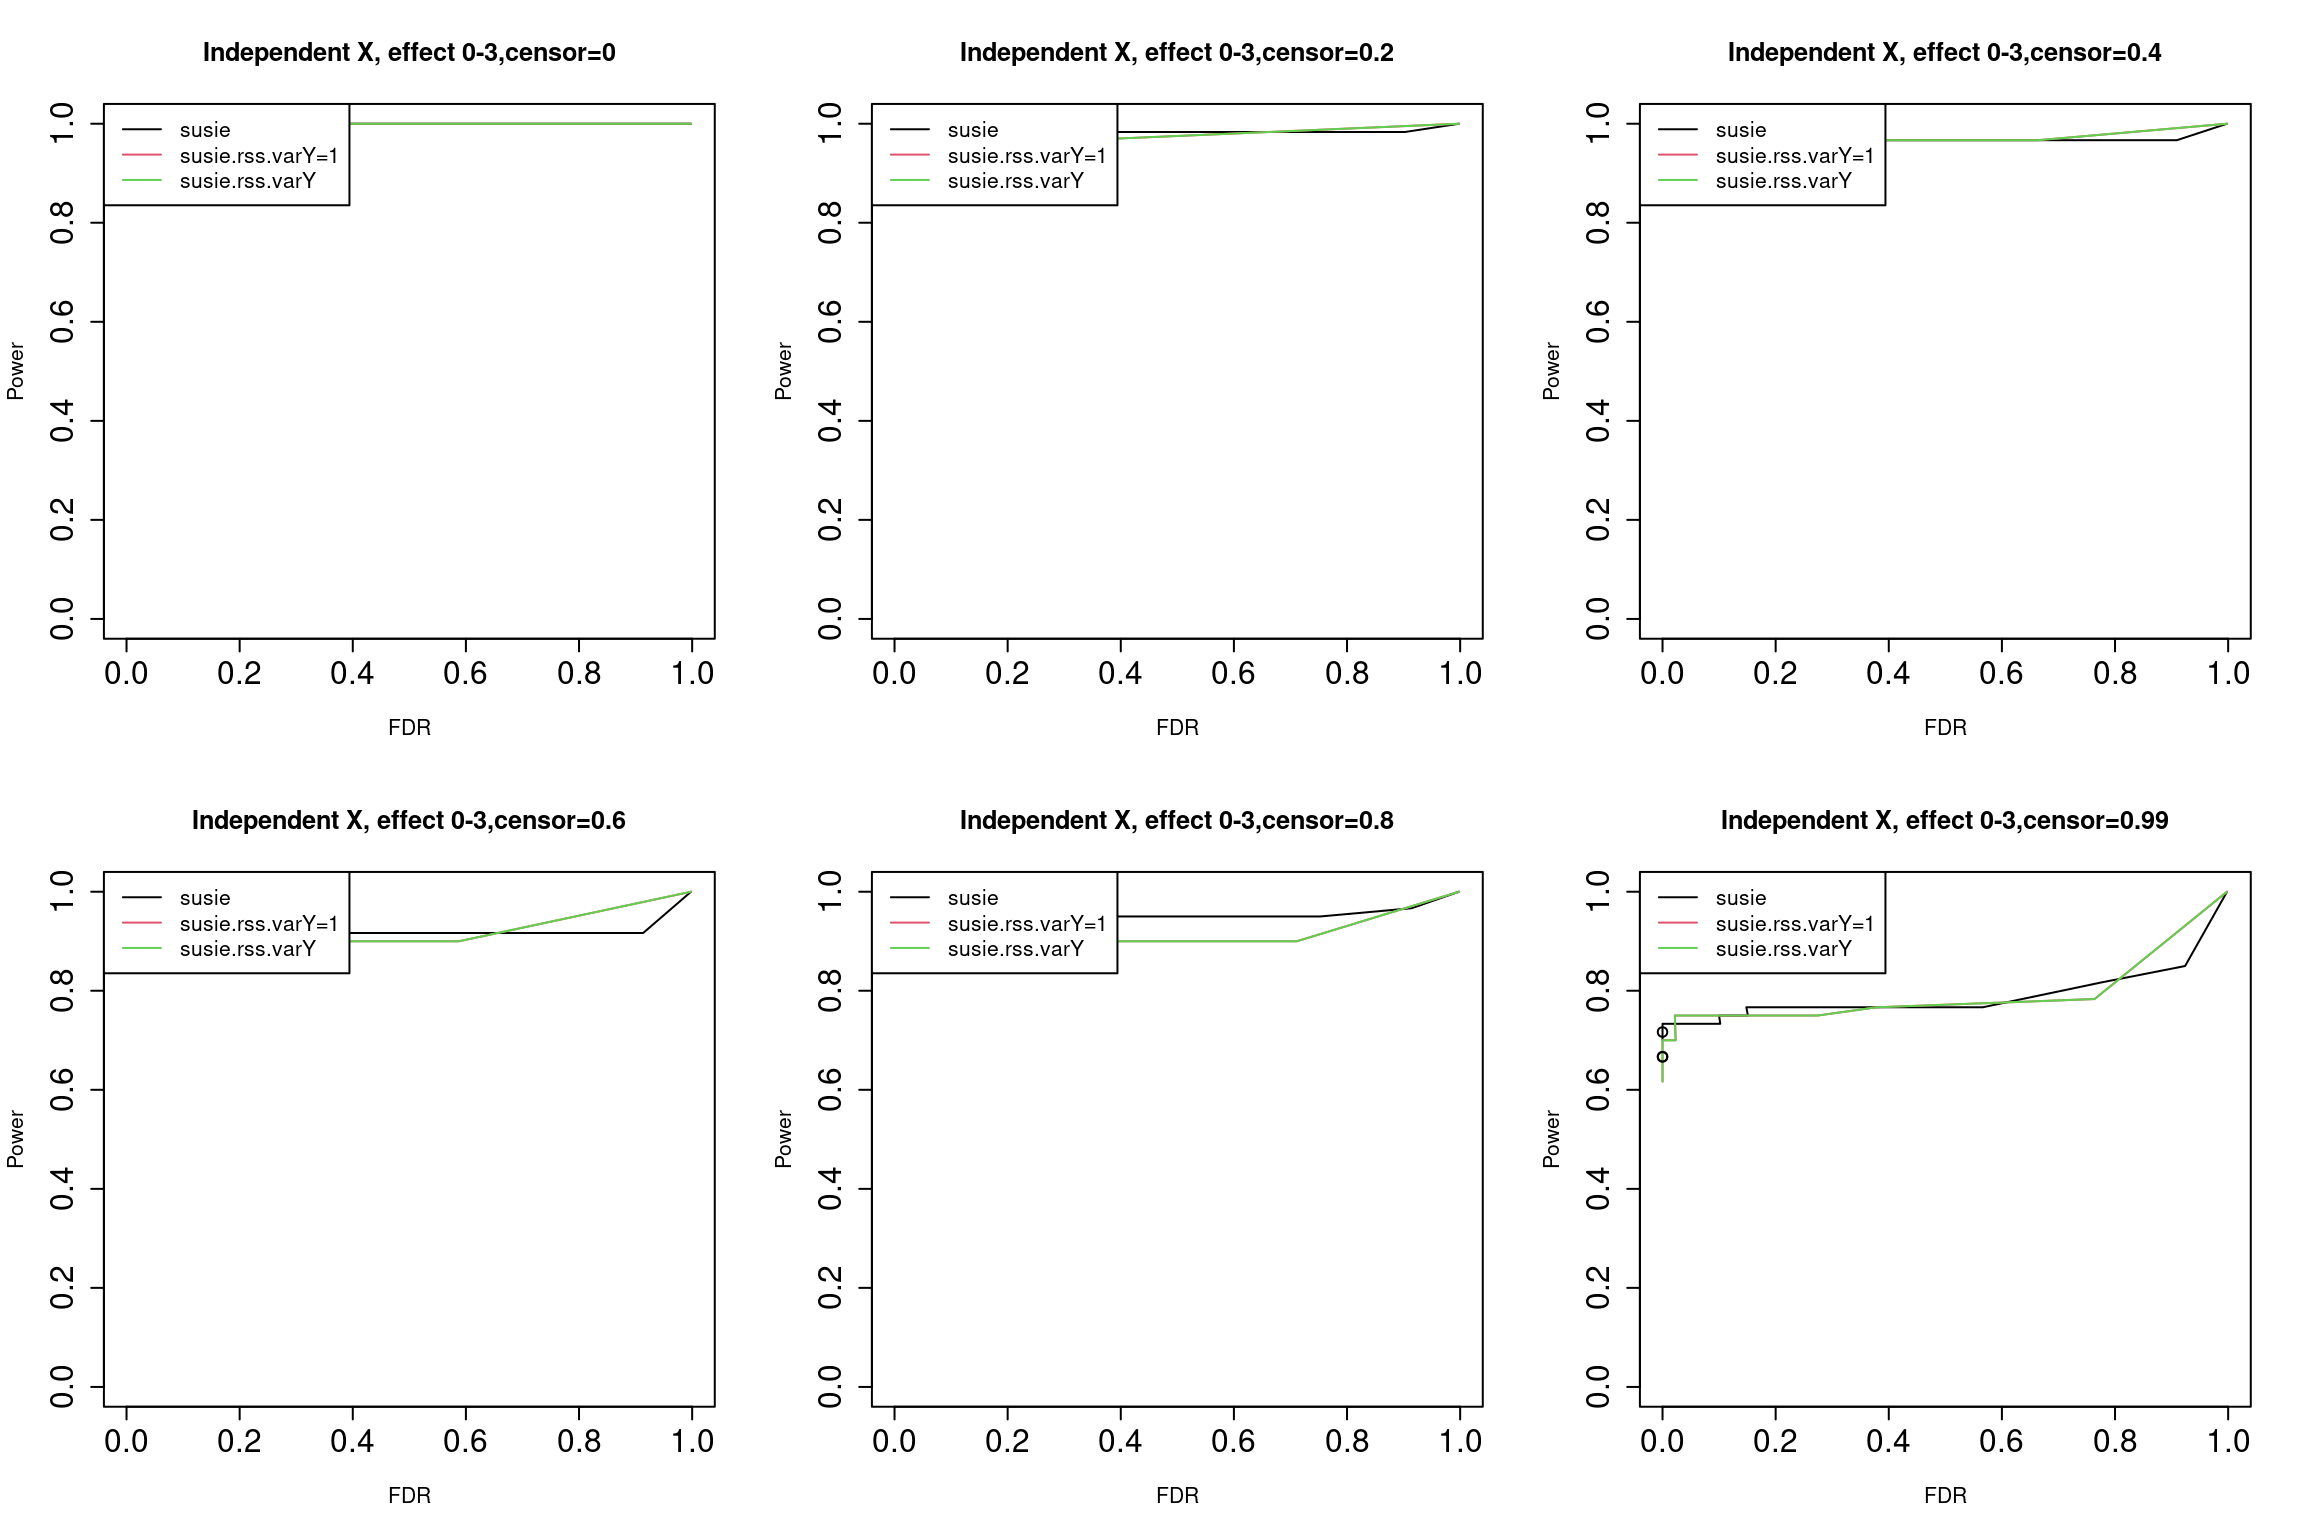
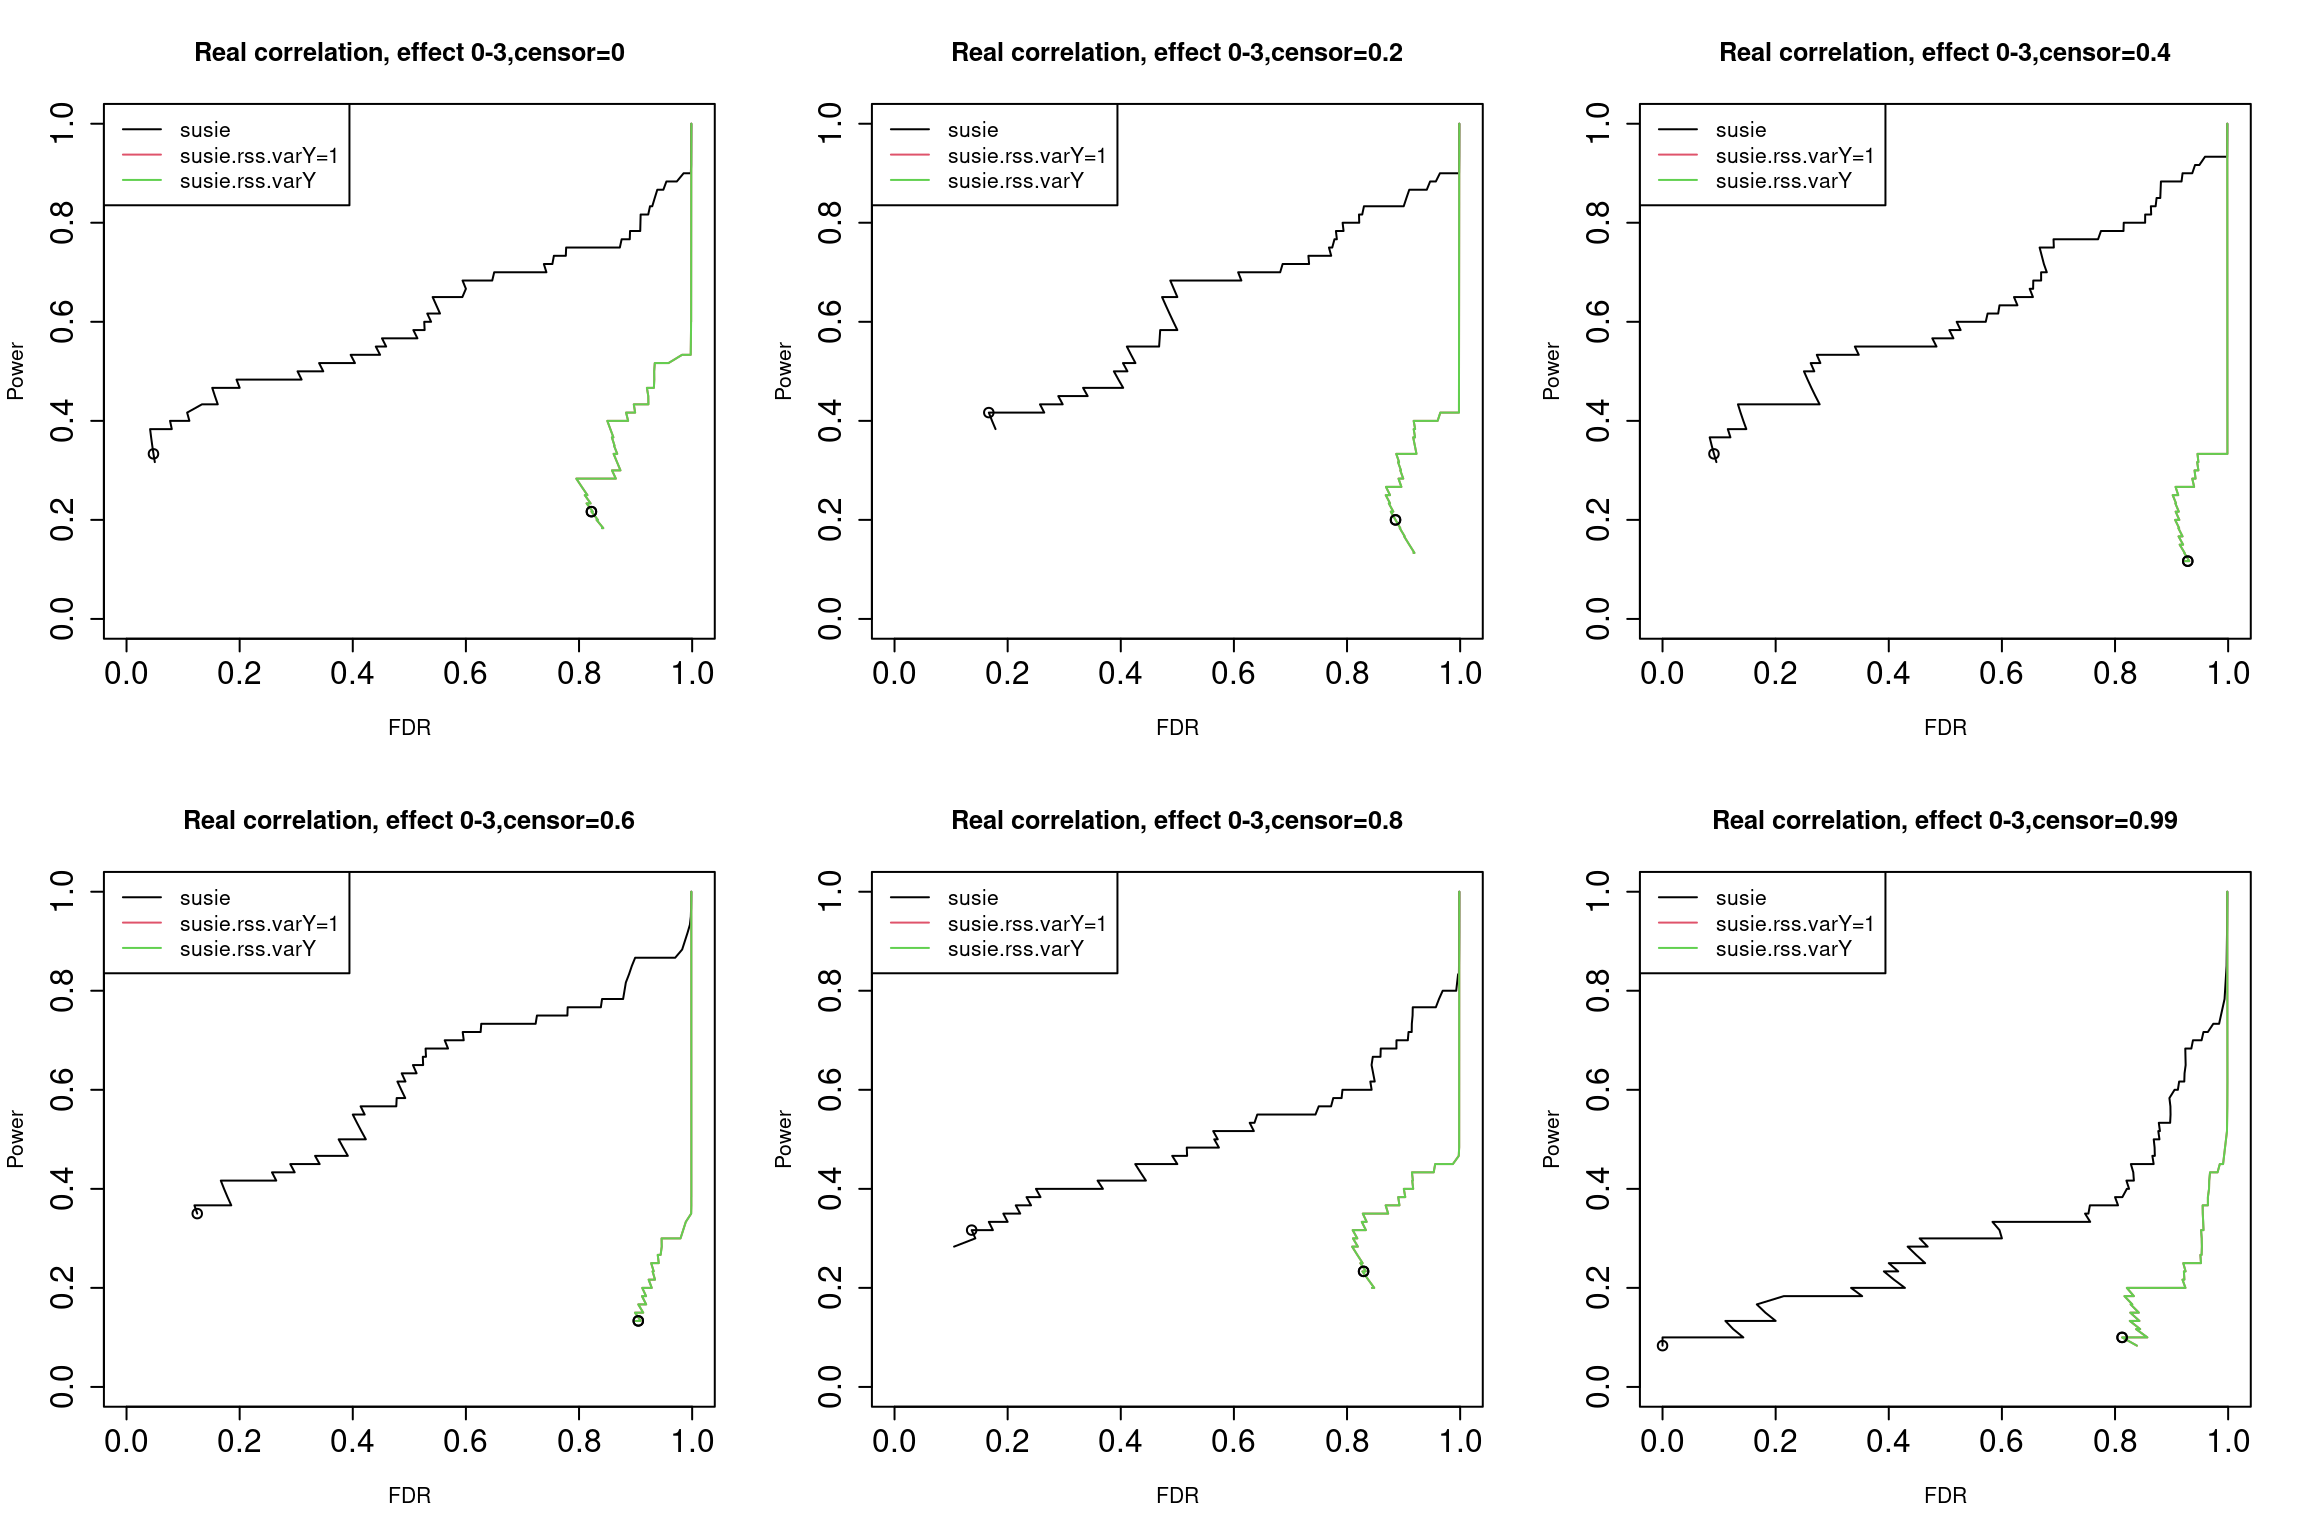
Build site.

diff --git a/docs/susierss_large_sample.html b/docs/susierss_large_sample.html
@@ -524,15 +524,15 @@ project makes it easier to run your code on other machines.</p>
 <div class="panel panel-default">
 <div class="panel-heading">
 <p class="panel-title">
-<a data-toggle="collapse" data-parent="#workflowr-checks" href="#strongRepositoryversionstrongahrefhttpsgithubcomyunqiyang0215survivalsusietree10d9db12c94d06596d01de424ae55f1161846866targetblank10d9db1a">
+<a data-toggle="collapse" data-parent="#workflowr-checks" href="#strongRepositoryversionstrongahrefhttpsgithubcomyunqiyang0215survivalsusietree86b0a55f281c7dad1f5a71398e88c67d195ab8e0targetblank86b0a55a">
 <span class="glyphicon glyphicon-ok text-success"
 aria-hidden="true"></span> <strong>Repository version:</strong>
-<a href="https://github.com/yunqiyang0215/survival-susie/tree/10d9db12c94d06596d01de424ae55f1161846866" target="_blank">10d9db1</a>
+<a href="https://github.com/yunqiyang0215/survival-susie/tree/86b0a55f281c7dad1f5a71398e88c67d195ab8e0" target="_blank">86b0a55</a>
 </a>
 </p>
 </div>
 <div
[2 lines of base64/hex data omitted]
 class="panel-collapse collapse">
 <div class="panel-body">
 <p>
@@ -542,7 +542,7 @@ reproducibility.
 </p>
 <p>
 The results in this page were generated with repository version
-<a href="https://github.com/yunqiyang0215/survival-susie/tree/10d9db12c94d06596d01de424ae55f1161846866" target="_blank">10d9db1</a>.
+<a href="https://github.com/yunqiyang0215/survival-susie/tree/86b0a55f281c7dad1f5a71398e88c67d195ab8e0" target="_blank">86b0a55</a>.
 See the <em>Past versions</em> tab to see a history of the changes made
 to the R Markdown and HTML files.
 </p>
@@ -558,6 +558,7 @@ were generated:
 <pre><code>
 Ignored files:
     Ignored:    .Rproj.user/
+    Ignored:    analysis/figure/
 
 Untracked files:
     Untracked:  analysis/dat_analysis_cancer_subtype.Rmd
@@ -609,6 +610,40 @@ Message
 </tr>
 </thead>
 <tbody>
+<tr>
+<td>
+Rmd
+</td>
+<td>
+<a href="https://github.com/yunqiyang0215/survival-susie/blob/86b0a55f281c7dad1f5a71398e88c67d195ab8e0/analysis/susierss_large_sample.Rmd" target="_blank">86b0a55</a>
+</td>
+<td>
+yunqi yang
+</td>
+<td>
+2024-01-30
+</td>
+<td>
+wflow_publish("analysis/susierss_large_sample.Rmd")
+</td>
+</tr>
+<tr>
+<td>
+html
+</td>
+<td>
+<a href="https://rawcdn.githack.com/yunqiyang0215/survival-susie/5ff44724341ab51f0442b1cc03825f1cfc80526d/docs/susierss_large_sample.html" target="_blank">5ff4472</a>
+</td>
+<td>
+yunqi yang
+</td>
+<td>
+2024-01-30
+</td>
+<td>
+Build site.
+</td>
+</tr>
 <tr>
 <td>
 Rmd
@@ -797,6 +832,7 @@ rss.varY = readRDS(&quot;/project2/mstephens/yunqiyang/surv-susie/dsc202401/susi
 <div id="results-using-real-correlation-structure-from-data"
 class="section level3">
 <h3>1. Results using real correlation structure from data</h3>
+<pre class="r"><code>t95 = 951</code></pre>
 <pre class="r"><code>par(mfrow = c(2,3), cex.axis = 1.5)
 censor_lvl = c(0, 0.2, 0.4, 0.6, 0.8, 0.99)
 for (i in 1:length(censor_lvl)){
@@ -816,81 +852,11 @@ for (i in 1:length(censor_lvl)){
   lines(res.rss[,2], res.rss[,1], type = &quot;l&quot;, col = 2)
   lines(res.rss.varY[,2], res.rss.varY[,1], type = &quot;l&quot;, col = 3)
   
-  points(res.susie[96,2], res.susie[96, 1])
-  points(res.rss[96,2], res.rss[96, 1])
-  points(res.rss.varY[96,2], res.rss.varY[96, 1])
+  points(res.susie[t95,2], res.susie[t95, 1])
+  points(res.rss[t95,2], res.rss[t95, 1])
+  points(res.rss.varY[t95,2], res.rss.varY[t95, 1])
   
   legend(&quot;topleft&quot;, legend = c(&quot;susie&quot;, &quot;susie.rss.varY=1&quot;, &quot;susie.rss.varY&quot;), col = c(1,2,3), lty = 1)
-}</code></pre>
-<p><img src="figure/susierss_large_sample.Rmd/unnamed-chunk-3-1.png" width="1152" style="display: block; margin: auto;" /></p>
-<p>
-<button type="button" class="btn btn-default btn-xs btn-workflowr btn-workflowr-fig" data-toggle="collapse" data-target="#fig-unnamed-chunk-3-1">
-Past versions of unnamed-chunk-3-1.png
-</button>
-</p>
-<div id="fig-unnamed-chunk-3-1" class="collapse">
-<div class="table-responsive">
-<table class="table table-condensed table-hover">
-<thead>
-<tr>
-<th>
-Version
-</th>
-<th>
-Author
-</th>
-<th>
-Date
-</th>
-</tr>
-</thead>
-<tbody>
-<tr>
-<td>
-<a href="https://github.com/yunqiyang0215/survival-susie/blob/e6f9c762129774596d8fcc3521ba703ff42280f3/docs/figure/susierss_large_sample.Rmd/unnamed-chunk-3-1.png" target="_blank">e6f9c76</a>
-</td>
-<td>
-yunqi yang
-</td>
-<td>
-2024-01-29
-</td>
-</tr>
-</tbody>
-</table>
-</div>
-</div>
-<p>The dots indicate PIP threshold = 0.95</p>
-</div>
-<div id="results-using-independent-x-without-data-from-null-model."
-class="section level3">
-<h3>2. Results using independent X, without data from null model.</h3>
-<pre class="r"><code>par(mfrow = c(2,3),cex.axis = 1.5)
-censor_lvl = c(0, 0.2, 0.4, 0.6, 0.8, 0.99)
-
-for (i in 1:length(censor_lvl)){
-  indx = which(susie$simulate.cor_type == &quot;independent&quot; &amp; susie$simulate.censor_lvl == censor_lvl[i] &amp; susie$simulate.num_effect != 0)
-  pip.susie = unlist(lapply(indx, function(x) susie$susie.pip[[x]]))
-  pip.rss = unlist(lapply(indx, function(x) rss$susie_rss.pip[[x]]))
-  pip.rss.varY = unlist(lapply(indx, function(x) rss.varY$susie_rss_varY.pip[[x]]))
-  is_effect = unlist(lapply(indx, function(x) susie$simulate.is_effect[[x]]))
-  
-  ts = seq(from = 0, to = 0.99, by = 0.01)
-  res.susie = calculate_tpr_vs_fdr(pip.susie, is_effect, ts)
-  res.rss = calculate_tpr_vs_fdr(pip.rss, is_effect, ts)
-  res.rss.varY = calculate_tpr_vs_fdr(pip.rss.varY, is_effect, ts)
-
-  plot(res.susie[,2], res.susie[,1], type = &quot;l&quot;, xlim = c(0,1), ylim = c(0, 1), xlab = &quot;FDR&quot;, ylab = &quot;Power&quot;,
-       main = paste0(&quot;Independent X, effect 0-3&quot;, &quot;,censor=&quot;, censor_lvl[i]))
-  lines(res.rss[,2], res.rss[,1], type = &quot;l&quot;, col = 2)
-  lines(res.rss.varY[,2], res.rss.varY[,1], type = &quot;l&quot;, col = 3)
-  
-  points(res.susie[96,2], res.susie[96, 1])
-  points(res.rss[96,2], res.rss[96, 1])
-  points(res.rss.varY[96,2], res.rss.varY[96, 1])
-  
-  legend(&quot;topleft&quot;, legend = c(&quot;susie&quot;, &quot;susie.rss.varY=1&quot;, &quot;susie.rss.varY&quot;), col = c(1,2,3), lty = 1)
-  
 }</code></pre>
 <p><img src="figure/susierss_large_sample.Rmd/unnamed-chunk-4-1.png" width="1152" style="display: block; margin: auto;" /></p>
 <p>
@@ -930,38 +896,39 @@ yunqi yang
 </table>
 </div>
 </div>
-<p>The dots indicate PIP threshold = 0.95.</p>
+<p>The dots indicate PIP threshold = 0.95</p>
 </div>
-<div id="results-using-independent-x-with-data-from-null-model."
+<div id="results-using-independent-x-without-data-from-null-model."
 class="section level3">
-<h3>3. Results using independent X, with data from null model.</h3>
+<h3>2. Results using independent X, without data from null model.</h3>
 <pre class="r"><code>par(mfrow = c(2,3),cex.axis = 1.5)
 censor_lvl = c(0, 0.2, 0.4, 0.6, 0.8, 0.99)
 
 for (i in 1:length(censor_lvl)){
-  indx = which(susie$simulate.cor_type == &quot;independent&quot; &amp; susie$simulate.censor_lvl == censor_lvl[i])
+  indx = which(susie$simulate.cor_type == &quot;independent&quot; &amp; susie$simulate.censor_lvl == censor_lvl[i] &amp; susie$simulate.num_effect != 0)
   pip.susie = unlist(lapply(indx, function(x) susie$susie.pip[[x]]))
   pip.rss = unlist(lapply(indx, function(x) rss$susie_rss.pip[[x]]))
   pip.rss.varY = unlist(lapply(indx, function(x) rss.varY$susie_rss_varY.pip[[x]]))
   is_effect = unlist(lapply(indx, function(x) susie$simulate.is_effect[[x]]))
   
-  ts = seq(from = 0, to = 0.99, by = 0.01)
+  ts = seq(from = 0, to = 0.99, by = 0.001)
   res.susie = calculate_tpr_vs_fdr(pip.susie, is_effect, ts)
   res.rss = calculate_tpr_vs_fdr(pip.rss, is_effect, ts)
   res.rss.varY = calculate_tpr_vs_fdr(pip.rss.varY, is_effect, ts)
 
   plot(res.susie[,2], res.susie[,1], type = &quot;l&quot;, xlim = c(0,1), ylim = c(0, 1), xlab = &quot;FDR&quot;, ylab = &quot;Power&quot;,
-       main = paste0(&quot;Real correlation, effect 0-3&quot;, &quot;,censor=&quot;, censor_lvl[i]))
+       main = paste0(&quot;Independent X, effect 0-3&quot;, &quot;,censor=&quot;, censor_lvl[i]))
   lines(res.rss[,2], res.rss[,1], type = &quot;l&quot;, col = 2)
   lines(res.rss.varY[,2], res.rss.varY[,1], type = &quot;l&quot;, col = 3)
   
-  points(res.susie[96,2], res.susie[96, 1])
-  points(res.rss[96,2], res.rss[96, 1])
-  points(res.rss.varY[96,2], res.rss.varY[96, 1])
+  points(res.susie[t95,2], res.susie[t95, 1])
+  points(res.rss[t95,2], res.rss[t95, 1])
+  points(res.rss.varY[t95,2], res.rss.varY[t95, 1])
   
   legend(&quot;topleft&quot;, legend = c(&quot;susie&quot;, &quot;susie.rss.varY=1&quot;, &quot;susie.rss.varY&quot;), col = c(1,2,3), lty = 1)
+  
 }</code></pre>
-<p><img src="figure/susierss_large_sample.Rmd/unnamed-chunk-5-1.png" width="960" style="display: block; margin: auto;" /></p>
+<p><img src="figure/susierss_large_sample.Rmd/unnamed-chunk-5-1.png" width="1152" style="display: block; margin: auto;" /></p>
 <p>
 <button type="button" class="btn btn-default btn-xs btn-workflowr btn-workflowr-fig" data-toggle="collapse" data-target="#fig-unnamed-chunk-5-1">
 Past versions of unnamed-chunk-5-1.png
@@ -999,6 +966,38 @@ yunqi yang
 </table>
 </div>
 </div>
+<p>The dots indicate PIP threshold = 0.95.</p>
+</div>
+<div id="results-using-independent-x-with-data-from-null-model."
+class="section level3">
+<h3>3. Results using independent X, with data from null model.</h3>
+<pre class="r"><code>par(mfrow = c(2,3),cex.axis = 1.5)
+censor_lvl = c(0, 0.2, 0.4, 0.6, 0.8, 0.99)
+
+for (i in 1:length(censor_lvl)){
+  indx = which(susie$simulate.cor_type == &quot;independent&quot; &amp; susie$simulate.censor_lvl == censor_lvl[i])
+  pip.susie = unlist(lapply(indx, function(x) susie$susie.pip[[x]]))
+  pip.rss = unlist(lapply(indx, function(x) rss$susie_rss.pip[[x]]))
+  pip.rss.varY = unlist(lapply(indx, function(x) rss.varY$susie_rss_varY.pip[[x]]))
+  is_effect = unlist(lapply(indx, function(x) susie$simulate.is_effect[[x]]))
+  
+  ts = seq(from = 0, to = 0.99, by = 0.001)
+  res.susie = calculate_tpr_vs_fdr(pip.susie, is_effect, ts)
+  res.rss = calculate_tpr_vs_fdr(pip.rss, is_effect, ts)
+  res.rss.varY = calculate_tpr_vs_fdr(pip.rss.varY, is_effect, ts)
+
+  plot(res.susie[,2], res.susie[,1], type = &quot;l&quot;, xlim = c(0,1), ylim = c(0, 1), xlab = &quot;FDR&quot;, ylab = &quot;Power&quot;,
+       main = paste0(&quot;Real correlation, effect 0-3&quot;, &quot;,censor=&quot;, censor_lvl[i]))
+  lines(res.rss[,2], res.rss[,1], type = &quot;l&quot;, col = 2)
+  lines(res.rss.varY[,2], res.rss.varY[,1], type = &quot;l&quot;, col = 3)
+  
+  points(res.susie[t95,2], res.susie[t95, 1])
+  points(res.rss[t95,2], res.rss[t95, 1])
+  points(res.rss.varY[t95,2], res.rss.varY[t95, 1])
+  
+  legend(&quot;topleft&quot;, legend = c(&quot;susie&quot;, &quot;susie.rss.varY=1&quot;, &quot;susie.rss.varY&quot;), col = c(1,2,3), lty = 1)
+}</code></pre>
+<p><img src="figure/susierss_large_sample.Rmd/unnamed-chunk-6-1.png" width="960" style="display: block; margin: auto;" /></p>
 <p>The dots indicate PIP threshold = 0.95.</p>
 </div>
 <div id="assess-susie-cs" class="section level3">
